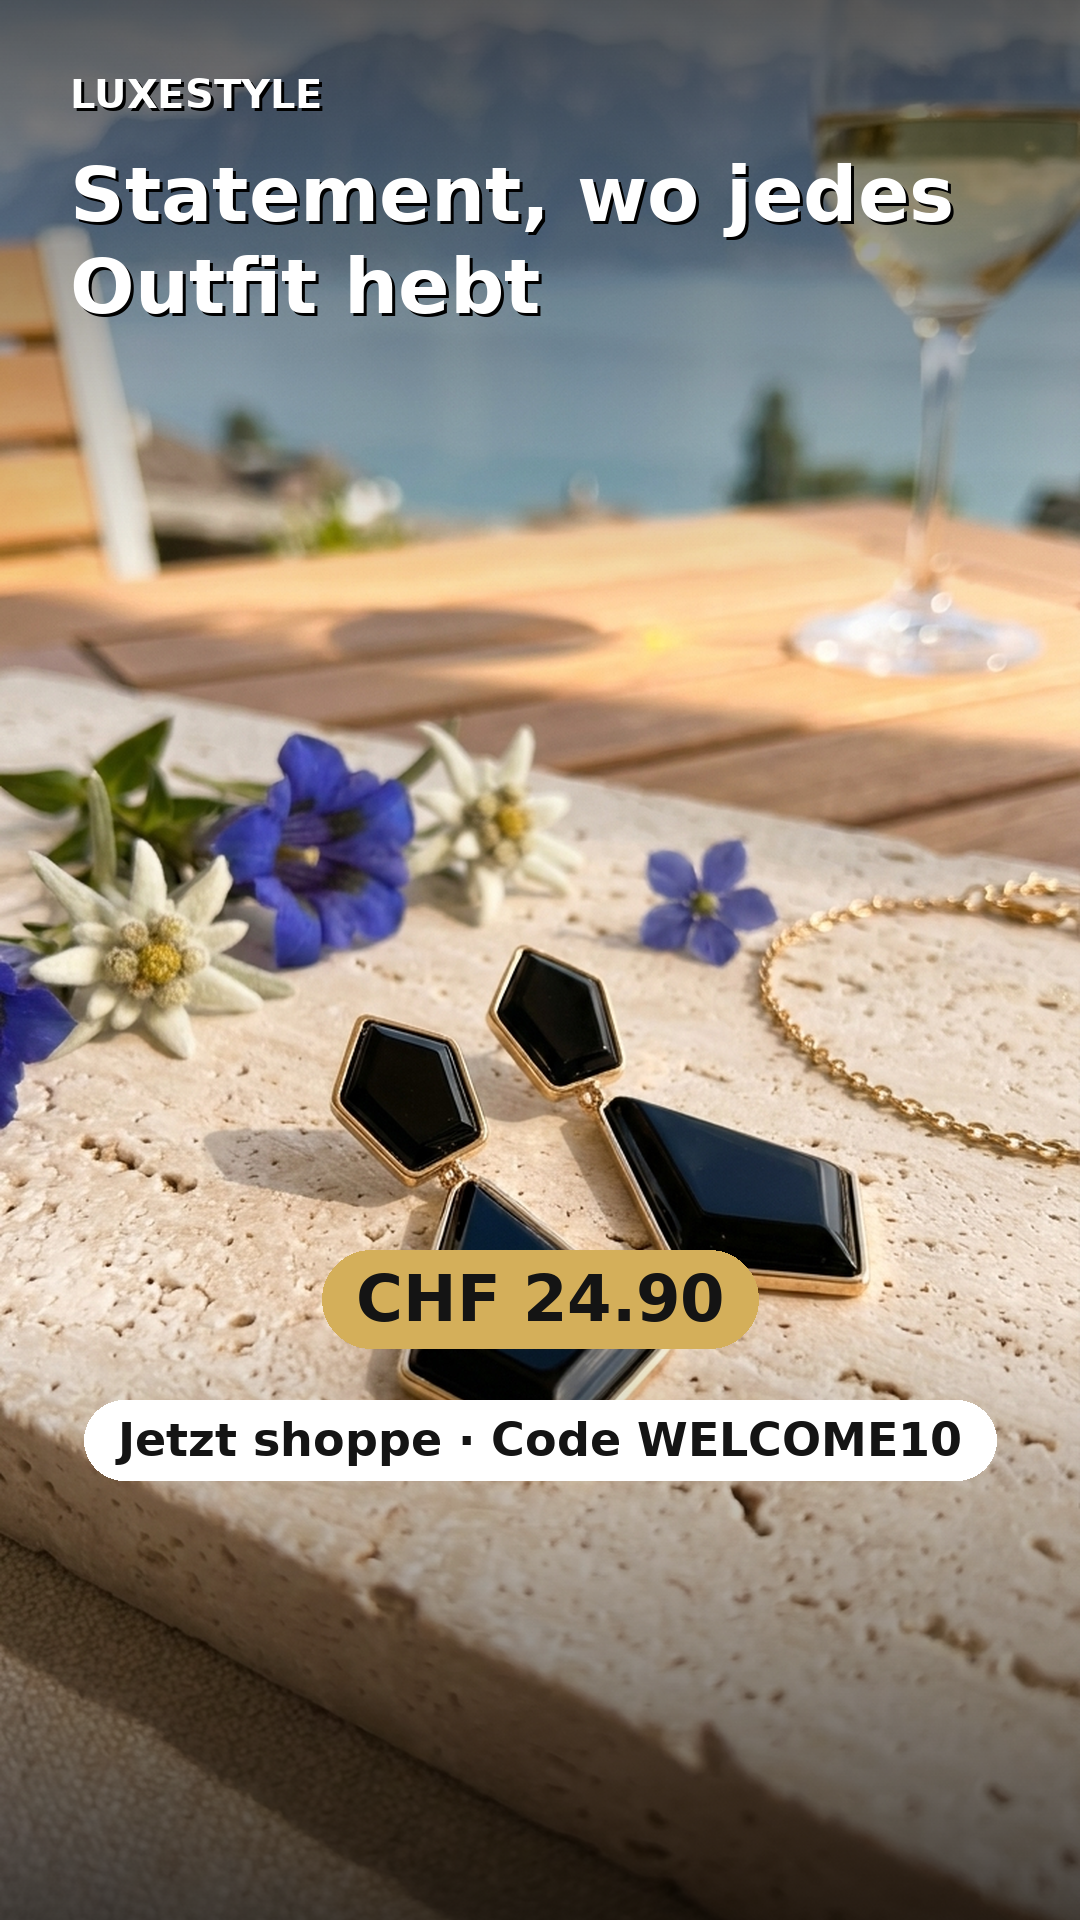
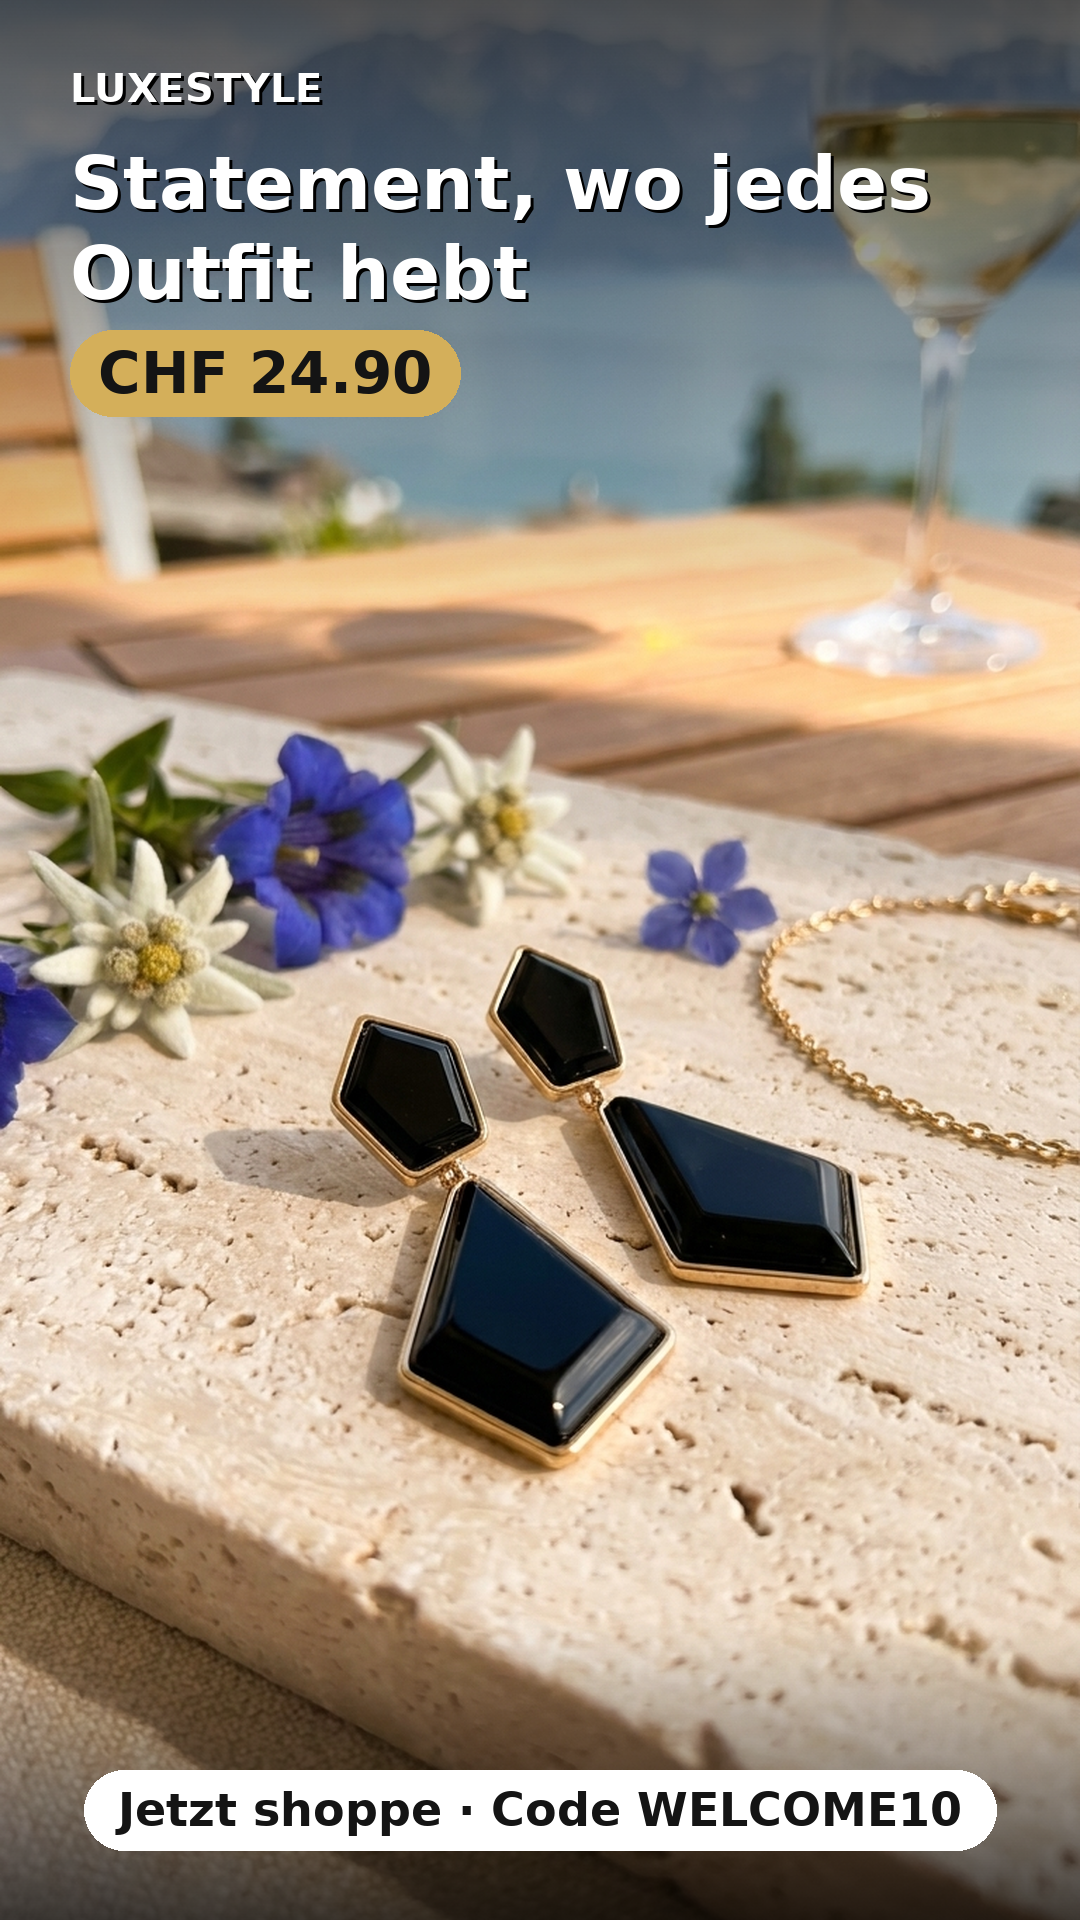
fix(card): Text ueberdeckt Produkt nicht mehr (User-Feedback)
Preis-Pill lag mitten auf dem Produkt. Layout umgebaut: Text NUR oberes Band (Marke+Hook+
Preis links) + unteres Band (CTA ganz unten) -> Produkt-Mitte bleibt frei.

Claude-Session: https://claude.ai/code/session_01M6Cnf5Y6Y3QTwG6hyC8Spw

Changed region(s): [[0.0, 0.625, 1.0, 0.9688], [0.0611, 0.0312, 0.8861, 0.2188]]

diff --git a/automation/build_ad_card.py b/automation/build_ad_card.py
@@ -63,27 +63,28 @@ def main():
     os.makedirs(os.path.dirname(out), exist_ok=True)
 
     img = fit_cover(Image.open(a.image)).convert("RGBA")
-    scrim(img, top=True, height=600, alpha=165)
-    scrim(img, top=False, height=620, alpha=185)
+    # Text NUR in OBERES Band (Marke+Hook+Preis) + UNTERES Band (CTA) -> Produkt-Mitte bleibt frei (kein Ueberdecken).
+    scrim(img, top=True, height=620, alpha=175)
+    scrim(img, top=False, height=300, alpha=190)
     d = ImageDraw.Draw(img)
 
-    # Marke oben links (Safe)
-    draw_text(d, (70, 70), a.brand, font(FB, 40), fill=(255, 255, 255, 230))
-
-    # Hook oben, umgebrochen
-    fh = font(FB, 76)
-    lines = textwrap.wrap(clean(a.hook), width=20)[:3]
-    y = 150
+    # OBEN: Marke, Hook, Preis-Pill
+    draw_text(d, (70, 64), a.brand, font(FB, 40), fill=(255, 255, 255, 235))
+    fh = font(FB, 74)
+    lines = textwrap.wrap(clean(a.hook), width=21)[:2]
+    y = 140
     for ln in lines:
         draw_text(d, (70, y), ln, fh)
-        y += 92
-
-    # CTA + Preis unten, ueber der Safe-Zone (y <= 1500)
-    yb = SAFE_BOTTOM - 250
+        y += 90
     if a.price:
-        pill(d, W // 2, yb, a.price, font(FB, 64), fill=(212, 175, 90, 245), tcol=(20, 20, 20))
-        yb += 150
-    pill(d, W // 2, yb, clean(a.cta), font(FB, 46), fill=(255, 255, 255, 240), tcol=(20, 20, 20))
+        # Preis links-buendig direkt unter dem Hook (im oberen Band, ueber dem Produkt)
+        fp = font(FB, 58); txt = a.price; pad = 28
+        w = d.textlength(txt, font=fp)
+        d.rounded_rectangle([70, y + 10, 70 + w + 2 * pad, y + 10 + fp.size + pad], radius=(fp.size + pad) // 2, fill=(212, 175, 90, 245))
+        d.text((70 + pad, y + 10 + (fp.size + pad) / 2), txt, font=fp, fill=(20, 20, 20), anchor="lm")
+
+    # UNTEN: CTA-Leiste ganz unten (unter dem Produkt)
+    pill(d, W // 2, H - 150, clean(a.cta), font(FB, 46), fill=(255, 255, 255, 242), tcol=(20, 20, 20))
 
     img.convert("RGB").save(out, quality=92)
     print("OK", out)
